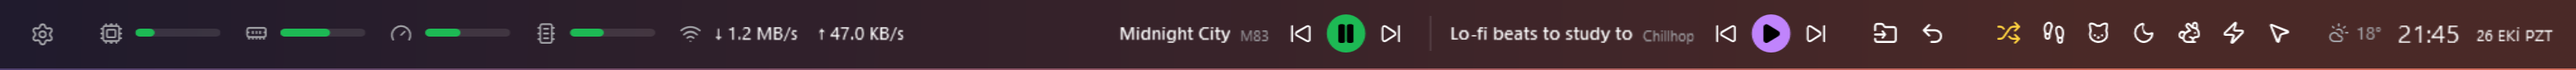
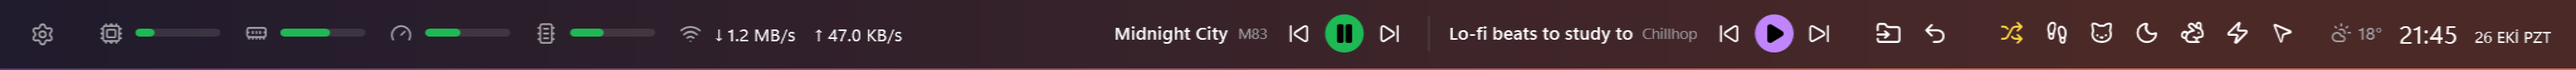
Sharper text and smooth title scrolling
Use Segoe UI Variable Small with ideal grayscale text, which reads like the
old browser rendering, and let the panel's transparency come from DWM
instead of a layered window. WPF then renders on the GPU, so the sliding
titles run at full frame rate for less CPU than the capped layered version.
The panel also restores its own size if anything external changes it.

Changed region(s): [[0.4062, 0.3182, 1.0, 0.6364], [0.2812, 0.3864, 0.375, 0.5909]]

diff --git a/src/Sempulse/App.xaml b/src/Sempulse/App.xaml
@@ -97,7 +97,7 @@
             <Setter Property="Background" Value="#F01E1E23" />
             <Setter Property="Foreground" Value="{StaticResource TextPrimary}" />
             <Setter Property="BorderBrush" Value="{StaticResource BorderSubtle}" />
-            <Setter Property="FontFamily" Value="Segoe UI" />
+            <Setter Property="FontFamily" Value="Segoe UI Variable Small, Segoe UI" />
             <Setter Property="FontSize" Value="12" />
             <Setter Property="Padding" Value="8,5" />
             <Setter Property="Template">

diff --git a/src/Sempulse/Native/DwmTransparency.cs b/src/Sempulse/Native/DwmTransparency.cs
@@ -1,0 +1,33 @@
+using System.Runtime.InteropServices;
+using System.Windows;
+using System.Windows.Interop;
+using System.Windows.Media;
+
+namespace Sempulse.Native;
+
+// Per-pixel transparency through the desktop compositor instead of a layered window. WPF then renders
+// on the GPU and animations no longer copy the whole window through system memory on every frame.
+internal static class DwmTransparency
+{
+    [StructLayout(LayoutKind.Sequential)]
+    struct MARGINS { public int Left, Right, Top, Bottom; }
+
+    [DllImport("dwmapi.dll")] static extern int DwmExtendFrameIntoClientArea(IntPtr hwnd, ref MARGINS margins);
+    [DllImport("dwmapi.dll")] static extern int DwmSetWindowAttribute(IntPtr hwnd, int attribute, ref int value, int size);
+
+    const int DWMWA_WINDOW_CORNER_PREFERENCE = 33, DWMWCP_DONOTROUND = 1;
+    const int DWMWA_BORDER_COLOR = 34, DWMWA_COLOR_NONE = unchecked((int)0xFFFFFFFE);
+
+    // Call from SourceInitialized on a window with AllowsTransparency = false and a transparent background.
+    public static void Enable(Window window)
+    {
+        IntPtr hwnd = new WindowInteropHelper(window).Handle;
+        if (HwndSource.FromHwnd(hwnd)?.CompositionTarget is { } target) target.BackgroundColor = Colors.Transparent;
+        var margins = new MARGINS { Left = -1, Right = -1, Top = -1, Bottom = -1 };
+        DwmExtendFrameIntoClientArea(hwnd, ref margins);
+        // Windows 11 would otherwise round the corners and draw a thin border around the bar.
+        int corner = DWMWCP_DONOTROUND, border = DWMWA_COLOR_NONE;
+        DwmSetWindowAttribute(hwnd, DWMWA_WINDOW_CORNER_PREFERENCE, ref corner, sizeof(int));
+        DwmSetWindowAttribute(hwnd, DWMWA_BORDER_COLOR, ref border, sizeof(int));
+    }
+}

diff --git a/src/Sempulse/App.xaml.cs b/src/Sempulse/App.xaml.cs
@@ -69,7 +69,9 @@ public partial class App : Application, IPanelActions
             var bounds = WindowPlacement.GetBounds(panel);
             if (!isFullscreen && settings.Mode == PanelMode.Widget) savedWidget = (bounds.X, bounds.Y);
         };
-        panel.DpiChangedAfterMove += () => { if (lastLayout is { Hidden: false } layout) WindowPlacement.SetBounds(panel, layout.Bounds); };
+        panel.DpiChangedAfterMove += RestorePanelBounds;
+        // Anything outside Sempulse that resizes the window (DPI or display changes) is undone.
+        panel.SizeChanged += (_, _) => Dispatcher.BeginInvoke(RestorePanelBounds, DispatcherPriority.Background);
         panel.Show();
         ApplyLayout();
 
@@ -99,6 +101,16 @@ public partial class App : Application, IPanelActions
     {
         lastWeather = await weather.GetAsync();
         view?.UpdateWeather(lastWeather);
+    }
+
+    void RestorePanelBounds()
+    {
+        if (lastLayout is not { Hidden: false } layout || !panel.IsVisible) return;
+        var bounds = WindowPlacement.GetBounds(panel);
+        bool wrongSize = bounds.Width != layout.Bounds.Width || bounds.Height != layout.Bounds.Height;
+        bool wrongPlace = layout.EffectiveMode == PanelMode.Bar && (bounds.X != layout.Bounds.X || bounds.Y != layout.Bounds.Y);
+        if (wrongSize || wrongPlace)
+            WindowPlacement.SetBounds(panel, layout.EffectiveMode == PanelMode.Bar ? layout.Bounds : layout.Bounds with { X = bounds.X, Y = bounds.Y });
     }
 
     void OnDisplaySettingsChanged(object? sender, EventArgs e) => Dispatcher.BeginInvoke(ApplyLayout);

diff --git a/src/Sempulse/Views/PanelWindow.cs b/src/Sempulse/Views/PanelWindow.cs
@@ -17,7 +17,9 @@ internal sealed class PanelWindow : Window
     {
         Title = "Sempulse";
         WindowStyle = WindowStyle.None;
-        AllowsTransparency = true;
+        // See-through background from the desktop compositor rather than a layered window: WPF keeps rendering
+        // on the GPU, so animations do not copy the whole window through system memory on every frame.
+        AllowsTransparency = false;
         Background = Brushes.Transparent;
         ResizeMode = ResizeMode.NoResize;
         ShowInTaskbar = false;
@@ -26,7 +28,11 @@ internal sealed class PanelWindow : Window
         Width = 1;
         Height = 1;
         WindowStartupLocation = WindowStartupLocation.Manual;
-        SourceInitialized += (_, _) => WindowPlacement.MakeToolWindow(this);
+        SourceInitialized += (_, _) =>
+        {
+            WindowPlacement.MakeToolWindow(this);
+            DwmTransparency.Enable(this);
+        };
     }
 
     protected override void OnMouseLeftButtonDown(MouseButtonEventArgs e)

diff --git a/src/Sempulse/Views/PanelView.cs b/src/Sempulse/Views/PanelView.cs
@@ -59,7 +59,9 @@ internal sealed class PanelView : Border
         thin = !widget && settings.Thickness < 60;
         meterStyle = widget ? MeterStyle.Widget : vertical ? MeterStyle.Vertical : MeterStyle.Bar;
 
-        TextOptions.SetTextFormattingMode(this, TextFormattingMode.Display);
+        // Transparent windows cannot use ClearType; ideal layout with grayscale smoothing matches the old (browser) text.
+        TextOptions.SetTextFormattingMode(this, TextFormattingMode.Ideal);
+        TextOptions.SetTextRenderingMode(this, TextRenderingMode.Grayscale);
         UseLayoutRounding = true;
         bool clear = settings.Opacity == 0;
         // Never fully transparent: a 1/255 fill keeps the whole panel clickable, like the old window.

diff --git a/src/Sempulse/Controls/Ui.cs b/src/Sempulse/Controls/Ui.cs
@@ -7,7 +7,8 @@ namespace Sempulse.Controls;
 // Small factories so the code-built panel reads like the markup it replaces.
 internal static class Ui
 {
-    public static readonly FontFamily Font = new("Segoe UI");
+    // Windows 11's small-size optical cut reads like the old browser text; Windows 10 falls back to Segoe UI.
+    public static readonly FontFamily Font = new("Segoe UI Variable Small, Segoe UI");
     public static readonly Brush Primary = Frozen(Colors.White);
     public static readonly Brush Secondary = Frozen(Color.FromRgb(0xA0, 0xA0, 0xA5));
     public static readonly Brush Accent = Frozen(Color.FromRgb(0x1D, 0xB9, 0x54));

diff --git a/src/Sempulse/Controls/MarqueeText.cs b/src/Sempulse/Controls/MarqueeText.cs
@@ -72,8 +72,6 @@ internal sealed class MarqueeText : Border
         animation.KeyFrames.Add(new DiscreteDoubleKeyFrame(0, KeyTime.FromPercent(0.15)));
         animation.KeyFrames.Add(new EasingDoubleKeyFrame(-overflow, KeyTime.FromPercent(0.85), ease));
         animation.KeyFrames.Add(new DiscreteDoubleKeyFrame(-overflow, KeyTime.FromPercent(1)));
-        // A transparent window is redrawn in full for every frame; 24 fps keeps the slide smooth at a fraction of the cost.
-        Timeline.SetDesiredFrameRate(animation, 24);
         animation.Freeze();
         shift.BeginAnimation(TranslateTransform.XProperty, animation);
     }

diff --git a/src/Sempulse/Views/SettingsWindow.cs b/src/Sempulse/Views/SettingsWindow.cs
@@ -31,7 +31,9 @@ internal sealed class SettingsWindow : Window
         Width = 320;
         SizeToContent = SizeToContent.Height;
         FontFamily = Ui.Font;
-        TextOptions.SetTextFormattingMode(this, TextFormattingMode.Display);
+        // Transparent windows cannot use ClearType; ideal layout with grayscale smoothing matches the old (browser) text.
+        TextOptions.SetTextFormattingMode(this, TextFormattingMode.Ideal);
+        TextOptions.SetTextRenderingMode(this, TextRenderingMode.Grayscale);
         UseLayoutRounding = true;
 
         var close = Ui.IconButton("X", 16, "Kapat", Hide, 0);

diff --git a/CONTRIBUTING.md b/CONTRIBUTING.md
@@ -30,7 +30,7 @@ Only one instance runs at a time, so close the installed copy before running a d
 Some guidelines:
 
 - Keep Windows calls inside `Services/` and put the decisions they feed into small pure functions that can be tested.
-- The panel window is transparent, so every animation frame repaints the whole window. Keep animations rare and cap their frame rate.
+- The panel is always on screen. Keep animations rare and stop them when nothing changes, so the app stays near idle.
 - The app must never need administrator rights, and must not send anything about the user over the network.
 - The interface text is Turkish for now. If you add strings, keep them short and in the same style.
 
